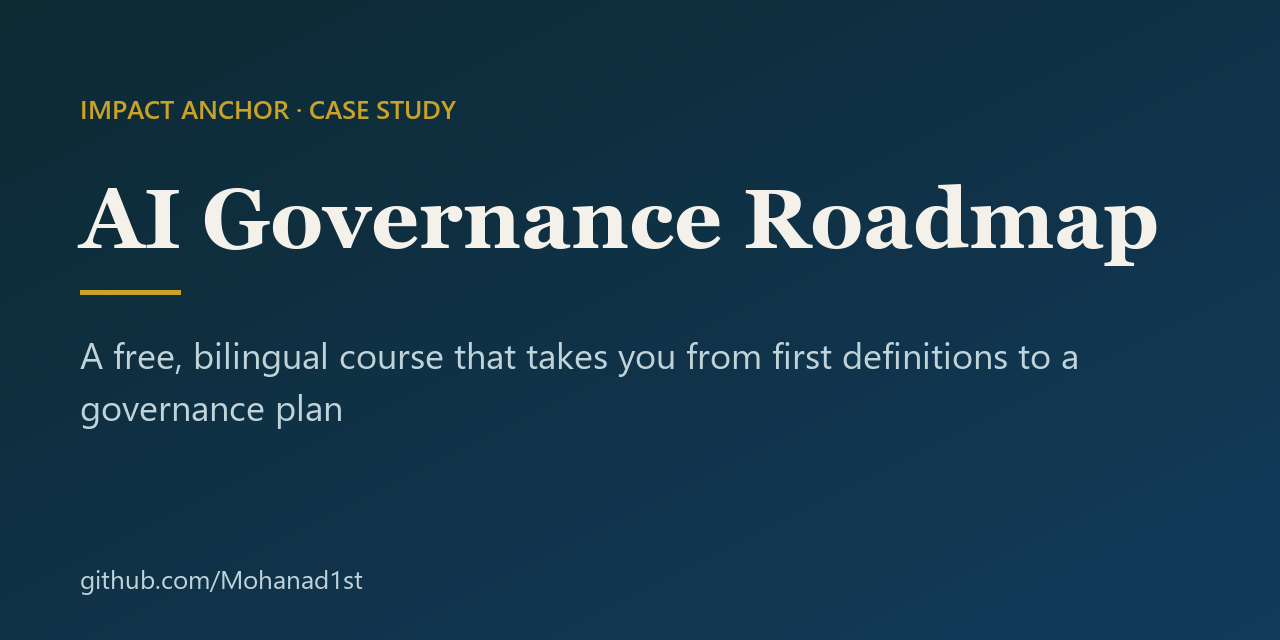
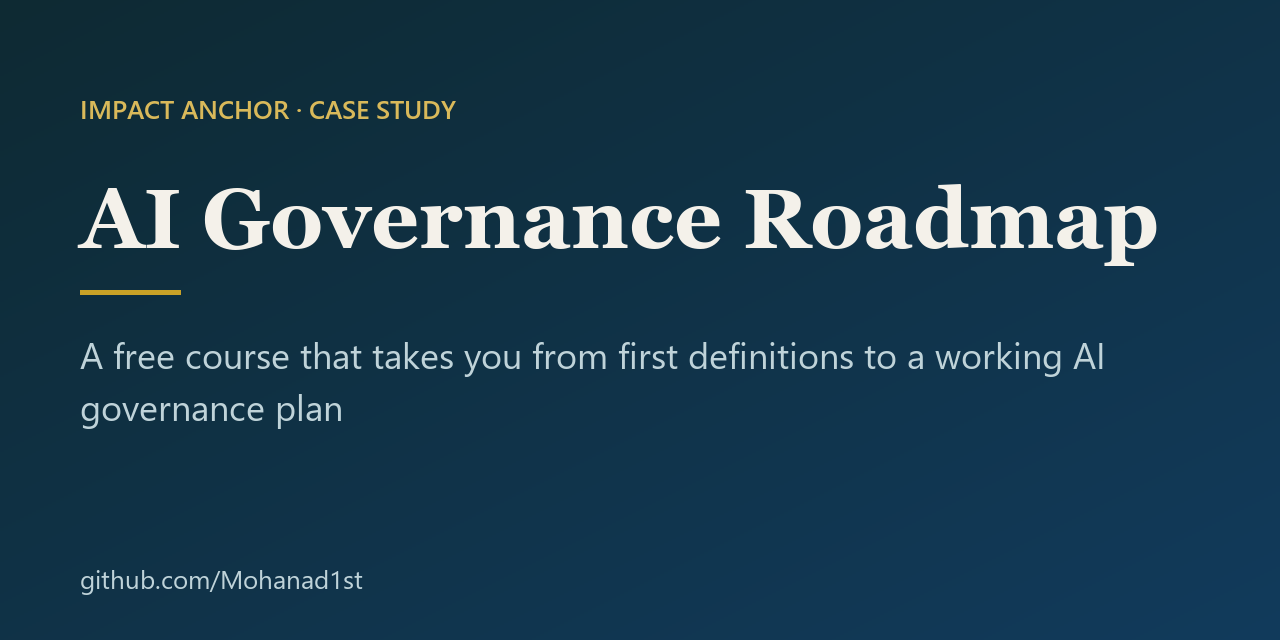
docs: align case study for ICAIRE and Coefficient Giving review
Calibrated claims and statuses, honest limits, corrected Arabic (AI-drafted: needs native review), phone-legible banner, top-to-bottom diagrams with text descriptions, descriptive alt text.

Changed region(s): [[0.125, 0.5312, 0.875, 0.5938], [0.0625, 0.1562, 0.375, 0.1875]]

diff --git a/README.md b/README.md
@@ -1,14 +1,16 @@
-<p align="center"><img src="assets/banner.svg" alt="AI Governance Roadmap — A free, bilingual course that takes you from first definitions to a governance plan" width="100%"></p>
+<p align="center"><img src="assets/banner.svg" alt="AI Governance Roadmap" width="100%"></p>
 
-<p align="center"><b>Status:</b> Relaunching &nbsp;·&nbsp; <b>Built by</b> <a href="https://github.com/Mohanad1st">Mohannad Hesham</a> &nbsp;·&nbsp; <b>Source:</b> private</p>
+<p align="center"><b>A free course that takes you from first definitions to a working AI governance plan</b></p>
 
-<p align="center" dir="rtl" lang="ar">دورة مجانية ثنائية اللغة في حوكمة الذكاء الاصطناعي</p>
+<p align="center" dir="rtl" lang="ar">دورة مجانية في حوكمة الذكاء الاصطناعي — الواجهة بالعربية والإنجليزية، والدروس العربية قيد الإعداد</p>
 
-> **This is a showcase, not the code.** The source is private because the new version is being prepared for relaunch. This page shows what it does and how it was built, not the code itself. A live walkthrough is available on request.
+<p align="center"><b>Status:</b> Built · not yet publicly available &nbsp;·&nbsp; <b>Built by</b> <a href="https://github.com/Mohanad1st">Mohannad Hesham</a></p>
+
+> Case study only: the source is private because the new version is being prepared for relaunch. Walkthrough on request.
 
 ## The problem
 
-Most AI governance material is dense, paywalled or a list of regulations to memorise. Teams in NGOs and the impact sector need judgement, not memorisation. This course turns the major frameworks — NIST AI RMF, ISO 42001, the EU AI Act, OWASP, UNESCO and OECD — into a guided journey anyone can follow for free, in English or Arabic.
+Good free AI governance material exists, but little of it is in Arabic or written for NGO and public-sector teams who need judgement rather than a list of regulations to memorise. This course turns the major frameworks — NIST AI RMF, ISO 42001, the EU AI Act, OWASP, UNESCO and OECD — into a guided journey anyone can follow for free. It covers the UNESCO Recommendation on the Ethics of AI with its Readiness Assessment Methodology and Ethical Impact Assessment, the OECD AI Principles, the NIST AI RMF, ISO/IEC 42001 and 42005, the EU AI Act, the Council of Europe Framework Convention and HUDERIA, and OWASP — with the Gulf in brief (SDAIA's AI Ethics Principles and Saudi Arabia's data-protection law named, and the UAE's federal and DIFC tracks). The interface is in Arabic and English; Arabic lessons are in progress.
 
 ## What it does
 
@@ -21,9 +23,9 @@ Most AI governance material is dense, paywalled or a list of regulations to memo
 
 ## See it
 
-<p align="center"><img src="assets/screen-1.webp" alt="The journey" width="92%"><br><sub>The journey</sub></p>
+<p align="center"><img src="assets/screen-1.webp" alt="Course landing page: Learn AI governance from scratch, with Start the journey and See the method buttons" width="92%"><br><sub>The journey</sub></p>
 
-<p align="center"><img src="assets/screen-2.webp" alt="The Anchor Tools — run in the browser, nothing stored" width="92%"><br><sub>The Anchor Tools — run in the browser, nothing stored</sub></p>
+<p align="center"><img src="assets/screen-2.webp" alt="The Anchor Gate tool: six yes, partly or no questions that score whether an AI tool or use case earns its place" width="92%"><br><sub>The Anchor Tools — run in the browser, nothing stored</sub></p>
 
 <sub>All screens show demo data or public pages only.</sub>
 
@@ -36,6 +38,7 @@ React · TypeScript · component design system · browser-side interactive tools
 - No account is needed to learn; an optional account only saves progress
 - Analytics are anonymous, with an opt-out
 - Arabic lesson copy is tracked as needing human review before it counts as final
+- The course's own tools (the Anchor Gate and a readiness snapshot) are organisation-level exercises, not UNESCO's Readiness Assessment Methodology or Ethical Impact Assessment, which it teaches separately and credits to UNESCO
 
 ## What it deliberately doesn't do
 
